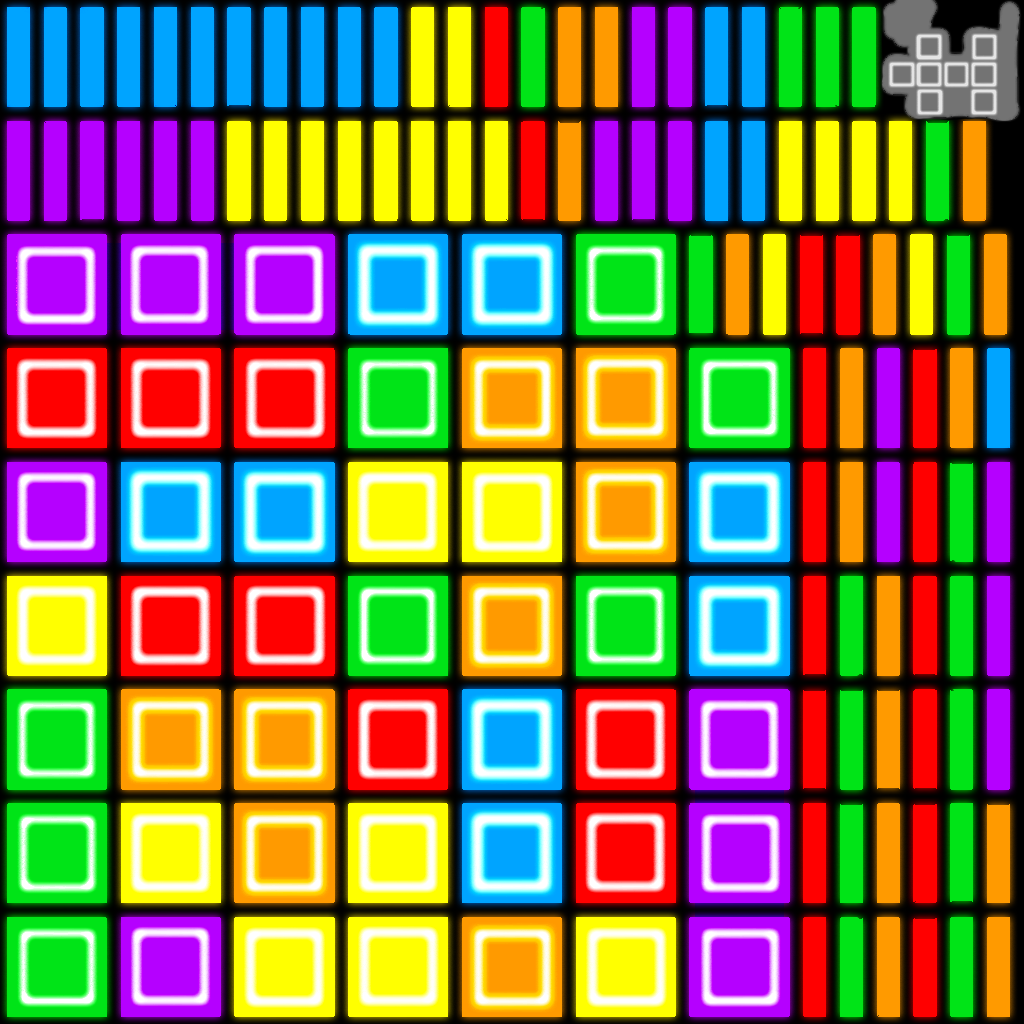
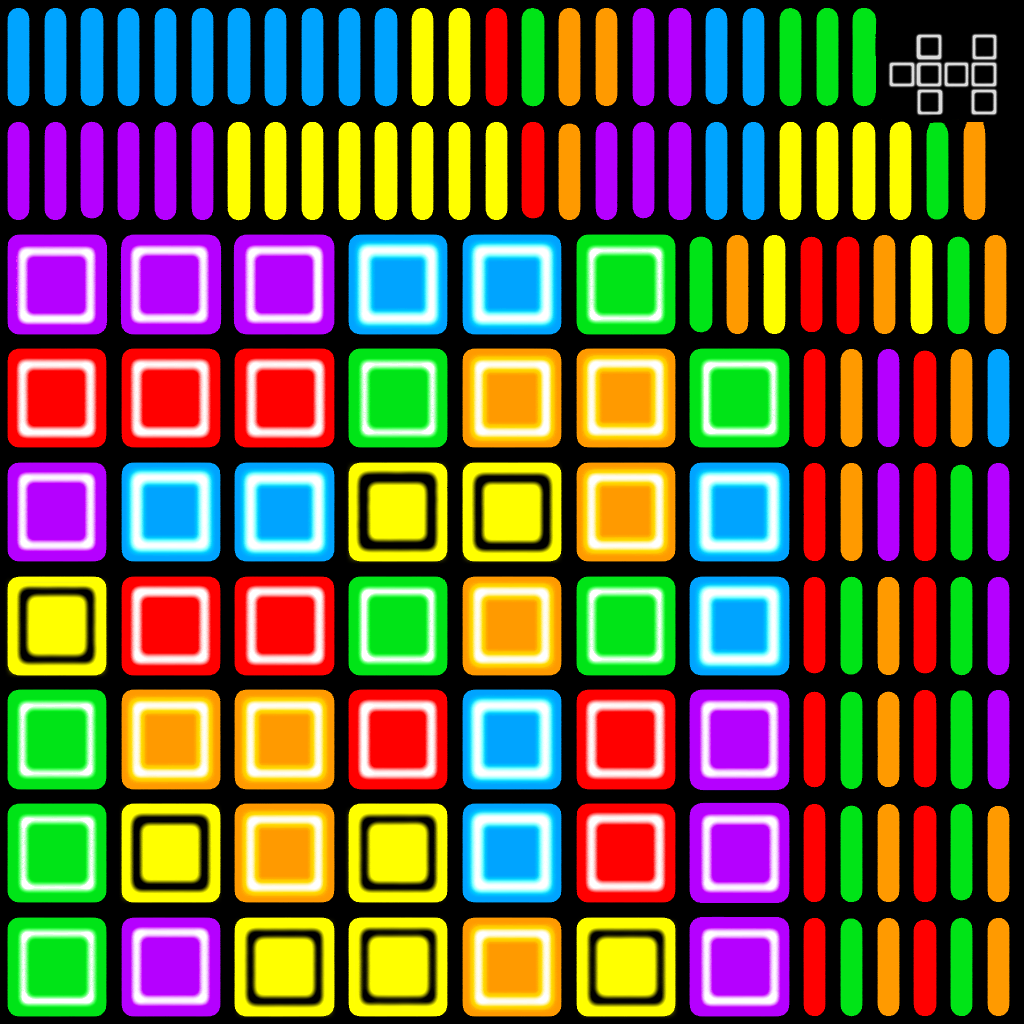
Add files via upload

Changed region(s): [[0.0, 0.0, 1.0, 1.0]]

diff --git a/index.html b/index.html
@@ -292,8 +292,8 @@
     url: 'https://srmcgann.github.io/quadtris/board.obj',
     map: 'https://srmcgann.github.io/quadtris/board_grey.png',
     name: 'board',
-    scaleX: -1.006,
-    scaleY: 1.006,
+    scaleX: -1.005,
+    scaleY: 1.005,
     scaleZ: 1,
     y: 9.33,
     color: 0x000000,
@@ -302,7 +302,7 @@
   if(1) await Coordinates.LoadGeometry(renderer, geoOptions).then(async (geometry) => {
     for(var i = 0; i < geometry.vertices.length; i+=3){
       geometry.vertices[i+0] += 0
-      geometry.vertices[i+1] += .05
+      geometry.vertices[i+1] += 0
       geometry.vertices[i+2] += 0
     }
     shapes.push(geometry)
